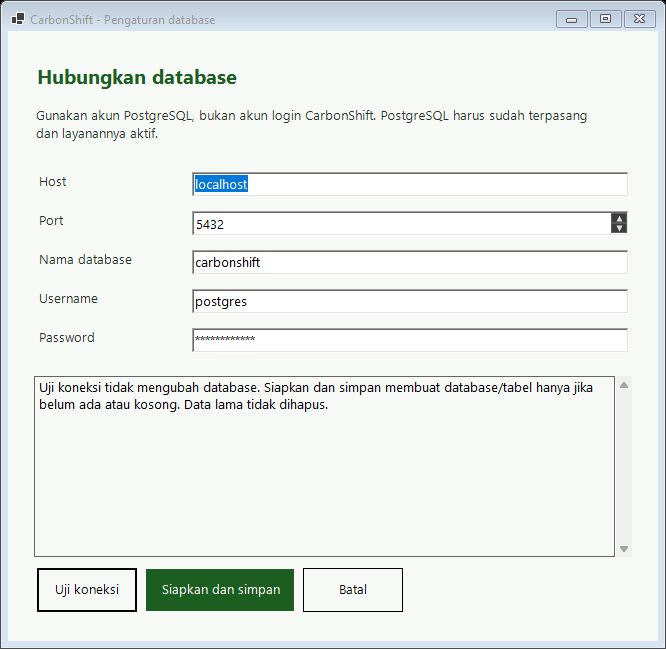
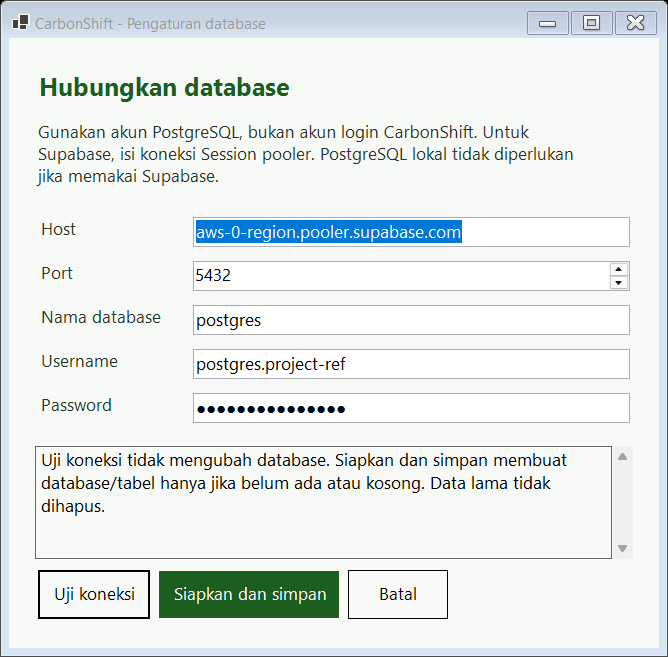
docs: sesuaikan panduan pengguna dan migrasi Supabase

diff --git a/docs/PANDUAN_PENGGUNA.md b/docs/PANDUAN_PENGGUNA.md
@@ -8,22 +8,21 @@ CarbonShift membantu memilih waktu aktivitas listrik berdasarkan prakiraan cuaca
 
 - Gunakan Windows 64-bit. Paket ini tidak ditujukan untuk macOS, Linux, atau Windows 32-bit.
 - Visual Studio, .NET SDK, dan .NET Runtime tidak perlu dipasang untuk memakai paket self-contained.
-- PostgreSQL harus dipasang terpisah dan layanannya aktif. Paket tidak menyertakan server PostgreSQL.
-- Internet diperlukan untuk mencari kota dan mengambil forecast terbaru. Cache hanya membantu jika data yang sesuai pernah diambil.
+- Database memakai PostgreSQL di Supabase. Kamu tidak perlu memasang PostgreSQL lokal.
+- Internet diperlukan untuk login, register, riwayat, pencarian kota, dan forecast terbaru. Cache forecast tidak menggantikan koneksi database.
 
-### Memasang PostgreSQL jika belum tersedia
+### Siapkan koneksi dari pengelola
 
-1. Unduh installer Windows melalui [situs resmi PostgreSQL](https://www.postgresql.org/download/windows/). Pengujian lokal paket menggunakan PostgreSQL 18.
-2. Pasang komponen PostgreSQL Server. pgAdmin boleh digunakan untuk pengelolaan manual.
-3. Catat password untuk akun PostgreSQL `postgres`. Akun ini berbeda dari akun pengguna CarbonShift.
-4. Port default adalah `5432`. Jika diganti atau port sudah dipakai, gunakan port instalasi tersebut pada wizard.
-5. Selesaikan instalasi. Jika koneksi gagal, buka Windows Services dan pastikan layanan PostgreSQL berstatus Running.
+1. Minta host, port, nama database, username Session pooler, dan password database kepada pengelola secara privat.
+2. Pastikan pengelola sudah menyiapkan database CarbonShift di Supabase. Pengguna tidak perlu membuat tabel atau menjalankan SQL.
+3. Simpan password database untuk pengaturan koneksi. Saat masuk aplikasi nanti, gunakan akun CarbonShift sendiri.
+4. Paket publik tidak menyertakan password database. Akses ini ditujukan untuk demonstrasi kelompok dengan peserta terbatas.
 
 ### Membuka paket
 
 1. Klik kanan ZIP submisi, lalu pilih **Extract All** ke folder yang dapat ditulis, misalnya Documents.
 2. Buka folder hasil ekstraksi, masuk ke folder **Aplikasi**, lalu jalankan **CarbonShift.exe**.
-3. Pertahankan seluruh isi folder **Aplikasi**, termasuk DLL dan runtime di samping executable. Jangan menjalankan aplikasi langsung dari ZIP atau memindahkan hanya EXE.
+3. Pertahankan seluruh isi folder **Aplikasi**, termasuk DLL, runtime, dan sertifikat **prod-ca-2021.crt**. Jangan memindahkan hanya EXE.
 4. Pada pemakaian pertama, ikuti Pengaturan database. Setelah konfigurasi berhasil, penggunaan berikutnya langsung menuju halaman Masuk.
 
 Pengaturan dan cache disimpan dalam profil Windows di `%LocalAppData%\CarbonShift`, bukan di dalam ZIP. Laporan testing Modul 10 milik kelompok disertakan terpisah oleh pengumpul.
@@ -32,21 +31,23 @@ Pengaturan dan cache disimpan dalam profil Windows di `%LocalAppData%\CarbonShif
 
 ## 2. Pengaturan database pertama kali
 
-Isi koneksi PostgreSQL, lalu pilih **Uji koneksi**. Tombol ini tidak mengubah database.
+Isi koneksi **Session pooler Supabase** dari pengelola, lalu pilih **Uji koneksi**. Tombol ini tidak mengubah database.
 
 | Field | Contoh / keterangan |
 | --- | --- |
-| Host | `localhost` untuk PostgreSQL pada laptop yang sama |
-| Port | `5432`, atau port yang dipilih saat instalasi |
-| Nama database | `carbonshift`. Jangan memakai `postgres` atau database template |
-| Username | `postgres`, atau akun PostgreSQL yang diberikan pengelola |
-| Password | Password PostgreSQL dari proses instalasi |
+| Host | Host Session pooler dari pengelola, berakhiran `.pooler.supabase.com` |
+| Port | Biasanya `5432`. Ikuti informasi dari pengelola |
+| Nama database | `postgres` untuk Supabase |
+| Username | Username pooler dari pengelola, biasanya `postgres.<project-ref>` |
+| Password | Password database dari pengelola, bukan password akun CarbonShift |
 
-![Wizard database. Password disamarkan.](images/01-database.png)
+![Pengaturan Supabase dengan contoh isian. Tidak memuat kredensial asli.](images/01-database.png)
 
-Klik **Siapkan dan simpan** setelah isian benar. Database baru memerlukan hak CREATEDB. Database kosong akan diisi lima tabel dan akun contoh. Database CarbonShift yang sudah sesuai langsung dipakai. Data lama tidak dihapus. Schema parsial/berbeda ditolak untuk mencegah perubahan yang tidak diinginkan.
+Klik **Siapkan dan simpan** setelah koneksi dan schema sesuai. Wizard menyimpan koneksi pada profil Windows. Supabase harus sudah berisi tabel CarbonShift, wizard tidak membuatnya.
 
-Jika konfigurasi perlu diganti, buka **Pengaturan database** di halaman Masuk. Batal saat pengaturan ulang mempertahankan koneksi sebelumnya. Batal pada setup pertama menutup aplikasi.
+Koneksi Supabase memakai TLS dengan verifikasi sertifikat CA dan nama server.
+
+Ubah koneksi melalui **Pengaturan database** di halaman Masuk. Batal saat pengaturan ulang mempertahankan koneksi sebelumnya.
 
 <!-- pagebreak -->
 
@@ -58,9 +59,9 @@ Pilih **Belum punya akun? Daftar**, isi nama dan email, lalu masukkan password 8
 
 Email tidak membedakan kapital. Password harus sama persis, termasuk spasi yang sengaja dimasukkan. Riwayat akun baru masih kosong.
 
-Untuk masuk kembali, gunakan mode **Masuk**. Akun contoh pada database yang baru disiapkan adalah **admin@carbonshift.com** dengan password **12345**. Database lama belum tentu memiliki akun contoh. Pengguna tetap dapat mendaftar sendiri. Kredensial PostgreSQL tidak dipakai pada form Masuk ini.
+Untuk masuk kembali, gunakan email dan password CarbonShift yang dibuat saat daftar. Akun lama dari DB lokal tetap dapat dipakai setelah pengelola memigrasikannya. Kredensial PostgreSQL tidak dipakai pada form Masuk ini.
 
-Setelah Logout, aplikasi kembali ke mode Masuk dengan password kosong. Setiap akun memiliki riwayat terpisah.
+Setelah Logout, aplikasi kembali ke mode Masuk dengan password kosong. Riwayat pada aplikasi mengikuti akun aktif. Akun dan riwayat dapat dibuka di komputer lain yang terhubung ke database Supabase yang sama. Lokasi terakhir dan cache tetap disimpan pada perangkat.
 
 <!-- pagebreak -->
 
@@ -111,10 +112,10 @@ Gunakan **Logout** di bawah sidebar untuk berganti akun. Untuk mengubah koneksi 
 
 | Gejala | Langkah yang dilakukan |
 | --- | --- |
-| Tidak terhubung ke PostgreSQL | Pastikan server terpasang, layanan Running, dan host/port sesuai. Gunakan Uji koneksi. |
-| Password PostgreSQL ditolak | Isi password PostgreSQL dari instalasi, bukan password akun CarbonShift. |
-| Hak akses kurang | Gunakan akun dengan CREATEDB untuk DB baru dan CREATE pada schema public untuk tabel baru. Hubungi pengelola jika perlu. |
-| Schema tidak sesuai | Jangan menghapus DB lama. Gunakan nama database baru atau minta pengelola memeriksa schema. |
+| Database tidak terhubung | Periksa internet, status project Supabase, host, port, dan username Session pooler. Gunakan Uji koneksi. |
+| Password database ditolak | Isi password database dari pengelola, bukan password akun CarbonShift. |
+| Sertifikat ditolak | Pastikan prod-ca-2021.crt tetap ada di folder Aplikasi dan tanggal komputer benar. Minta pengelola memeriksa sertifikat. |
+| Hak akses atau schema tidak sesuai | Hubungi pengelola. Jangan menjalankan SQL lokal atau menghapus tabel Supabase. |
 | Email sudah terdaftar | Pilih mode Masuk atau gunakan email lain. |
 | Tidak ada slot cocok | Pilih besok/lusa, perluas rentang, atau kurangi durasi. Semua interval harus memiliki data lengkap. |
 | Forecast gagal | Periksa internet dan ambil ulang. Cache cadangan hanya tersedia jika pernah mengambil data yang masih sesuai. |
@@ -127,13 +128,8 @@ Aplikasi membaca konfigurasi dari environment variable `CARBONSHIFT_DB`, konfigu
 
 File konfigurasi lokal memuat kredensial PostgreSQL. Jangan memasukkannya ke ZIP atau membagikannya. Saat menerima versi aplikasi baru, ekstrak ke folder baru. Konfigurasi profil Windows dan database tetap terpisah dari paket aplikasi.
 
-### Setup SQL manual (opsional)
+### Informasi untuk pengelola
 
-Wizard tidak memerlukan psql atau pgAdmin. Jika pengelola memilih setup manual untuk database baru, jalankan perintah berikut dari folder Database.
+Detail penyiapan dan migrasi ada di **Dokumentasi/Supabase.md**. Contoh koneksi tanpa password asli ada di **Database/supabase.config.example**. SQL di **Database/Lokal-opsional** hanya untuk PostgreSQL lokal, bukan Supabase.
 
-```text
-psql -U postgres -h localhost -d postgres -f schema.psql
-psql -U postgres -h localhost -d carbonshift -f seed.sql
-```
-
-Script schema manual membuat database baru bernama carbonshift dan akan gagal jika database itu sudah ada. Script ini tidak melakukan reset. Untuk database lama yang sesuai, cukup pakai wizard. Nama/tipe tabel tetap mengikuti rancangan resmi kelompok.
+Jangan membagikan password database atau konfigurasi pribadi bersama paket publik. Koneksi SQL langsung belum membatasi akses antar pengguna pada tingkat database. Untuk distribusi publik, siapkan backend API atau Supabase Auth beserta kebijakan RLS per pengguna.

diff --git a/docs/SUPABASE.md b/docs/SUPABASE.md
@@ -1,0 +1,88 @@
+# Memindahkan CarbonShift ke Supabase
+
+Supabase digunakan sebagai server PostgreSQL. Login CarbonShift tetap memakai tabel `public."user"` dan hash password yang sudah ada. Supabase Auth tidak dipakai. Lima tabel, ID, relasi, akun, dan riwayat dipertahankan.
+
+## Membuat project
+
+1. Masuk ke [dashboard Supabase](https://supabase.com/dashboard), lalu pilih **New project**.
+2. Pilih organisasi dan beri nama project, misalnya `carbonshift`.
+3. Buat password database yang kuat dan simpan di password manager. Ini bukan password akun CarbonShift.
+4. Pilih region Singapore jika tersedia, lalu buat project. Tunggu sampai database siap.
+5. Buka pengaturan integrasi **Data API**, lalu matikan **Enable Data API**. Aplikasi saat ini tidak memakai REST, GraphQL, atau SDK Supabase. Jangan mengekspos tabel akun beserta hash password melalui Data API.
+6. Buka **Connect**, lalu pilih **Session pooler**. Salin host, port, database, dan username dari panel tersebut. Jangan menebak host berdasarkan region.
+7. Gunakan database `postgres` dan port dari panel, biasanya `5432`. Username pooler biasanya berbentuk `postgres.<project-ref>`. Jangan pilih Transaction pooler untuk migrasi ini.
+8. Jangan jalankan `schema.psql` atau `seed.sql` di project target. Database Supabase sudah tersedia dan akun lama akan dibawa melalui migrasi.
+
+Centang **Enable RLS on new tables automatically** jika pilihan itu tersedia. Saat migrasi, tetap periksa RLS pada setiap tabel dan hak akses role database yang dipakai.
+
+Session pooler mendukung koneksi dari jaringan IPv4. Koneksi direct bergantung dukungan IPv6 atau add-on IPv4. Lihat [dokumentasi koneksi Supabase](https://supabase.com/docs/guides/database/connecting-to-postgres).
+
+## Menyimpan koneksi secara lokal
+
+Simpan koneksi target di `Form/CarbonShift/supabase.config`. File ini diabaikan Git dan tidak dibundel ke aplikasi. Isi format Npgsql dengan nilai project sendiri.
+
+```text
+Host=<host-session-pooler>;Port=5432;Database=postgres;Username=postgres.<project-ref>;Password=<password-database>;SSL Mode=VerifyFull;Root Certificate=<path-sertifikat>;Timeout=15;Command Timeout=30
+```
+
+Gunakan tanda kutip ganda pada nilai password yang mengandung titik koma. Jangan menempelkan connection string lengkap ke chat, screenshot, commit, atau GitHub Releases. Publishable key, anon key, dan service role key bukan password PostgreSQL.
+
+Untuk menjalankan aplikasi dari PowerShell setelah migrasi berhasil, gunakan konfigurasi berikut.
+
+```powershell
+$env:CARBONSHIFT_DB = (Get-Content -Raw Form/CarbonShift/supabase.config).Trim()
+dotnet run --project Form/CarbonShift/CarbonShift.csproj
+```
+
+Alternatifnya, isi koneksi target melalui Pengaturan database di halaman Masuk. Dukungan ini memerlukan build aplikasi yang sudah memuat perubahan Supabase. ZIP v1.0.0 yang diterbitkan sebelum perubahan ini belum mendukung nama database Supabase.
+
+Koneksi ke host Supabase memakai TLS dengan verifikasi sertifikat dan hostname. Jika koneksi gagal karena sertifikat, periksa sertifikat CA dan konfigurasi dari Supabase. Jangan mengatasi masalah dengan mematikan verifikasi.
+
+Buka **Database → Settings → SSL Configuration**, aktifkan **Enforce SSL on incoming connections**, lalu pilih **Download certificate**. Sertifikat CA yang dipakai project ini disimpan sebagai `Form/CarbonShift/prod-ca-2021.crt` dan ikut disalin saat build atau publish. Ini sertifikat publik, bukan private key atau password. Jika path sertifikat tidak ditentukan dalam konfigurasi, aplikasi mencari file tersebut di samping executable.
+
+Path absolut pada `Root Certificate` hanya berlaku pada komputer yang memiliki file tersebut. Saat pindah komputer, sesuaikan path atau gunakan sertifikat bawaan di folder aplikasi melalui wizard. Jangan membundel konfigurasi pribadi.
+
+## Urutan migrasi
+
+1. Tutup semua aplikasi CarbonShift yang menulis ke DB sumber.
+2. Pastikan DB sumber yang dipilih benar. Cocokkan jumlah akun, aktivitas, forecast, slot, dan rekomendasi.
+3. Buat backup lokal dengan `pg_dump` dalam format custom. Simpan di `artifacts/` agar tidak masuk Git. Backup berisi data pengguna dan hash password, sehingga tidak boleh diunggah sebagai aset release.
+4. Periksa versi PostgreSQL sumber dan target. Gunakan alat migrasi yang sesuai. Sumber lokal saat persiapan menggunakan PostgreSQL 18. Jangan langsung menganggap dump dari versi lebih baru dapat dipulihkan ke server versi lebih lama.
+5. Periksa bahwa kelima tabel CarbonShift belum ada di target. Jika sudah ada, hentikan migrasi dan periksa isinya. Jangan memakai opsi `--clean`, menghapus schema `public`, atau menimpa data secara otomatis.
+6. Impor hanya schema dan data CarbonShift. Jangan memindahkan role lokal, kepemilikan lokal, atau schema internal Supabase seperti `auth`, `storage`, dan `extensions`.
+7. Pastikan seluruh impor berhasil sebelum memakai target. Pertahankan ID dan nilai identity sequence agar pendaftaran serta penyimpanan berikutnya tidak bertabrakan.
+8. Lindungi tabel dengan mencabut akses Data API dan mengaktifkan RLS. Periksa bahwa akun koneksi aplikasi memiliki akses SQL yang memang dibutuhkan. RLS tanpa kebijakan tidak membatasi role pemilik tabel atau role BYPASSRLS.
+9. Cocokkan jumlah baris setiap tabel serta relasi dan isi data. Uji login akun lama, daftar akun sementara, simpan jadwal, restart, dan pemisahan riwayat melalui aplikasi.
+10. Alihkan konfigurasi aplikasi hanya setelah verifikasi berhasil. Simpan DB lokal sebagai cadangan. Jika ada penulisan baru ke sumber setelah backup dibuat, ambil backup baru sebelum cutover.
+
+Jangan menjalankan seluruh suite integrasi setup database pada project Supabase produksi. Beberapa pengujian membuat dan menghapus database atau role sementara. Gunakan pengujian terbatas pada akun dan data uji khusus.
+
+Panduan resmi tersedia pada [migrasi PostgreSQL ke Supabase](https://supabase.com/kb/guides/migrate-from-postgres) dan [pengamanan Data API](https://supabase.com/docs/guides/api/securing-your-api).
+
+## Batas penggunaan koneksi langsung
+
+Koneksi PostgreSQL langsung masih menggunakan kredensial DB di perangkat pengguna. Pemisahan riwayat oleh query aplikasi bukan pembatasan hak akses antar pengguna pada tingkat database. Jangan membagikan password `postgres` dalam ZIP atau menjadikan konfigurasi ini akses publik.
+
+Untuk distribusi publik, gunakan backend API atau integrasi Supabase Auth dengan kebijakan RLS per pengguna. Perpindahan hosting database saja belum menyediakan perlindungan tersebut.
+
+## Status persiapan
+
+Migrasi dilaksanakan pada 22 November 2026 dari PostgreSQL 18 lokal ke PostgreSQL 17 di Supabase melalui Session pooler dan TLS dengan sertifikat terverifikasi. Backup custom disimpan secara lokal di `artifacts/migration-final-d8dbbf7c151c4204aad1278335ee9e10/`. File backup dan konfigurasi sumber tidak boleh masuk Git atau release.
+
+Schema dibuat dari definisi resmi. Seluruh nilai disalin lewat Npgsql dalam transaksi, termasuk ID, hash password, timestamp, dan relasi. Identity sequence diselaraskan dengan ID yang sudah ada. Metode ini tidak melakukan restore dump PostgreSQL 18 langsung ke server PostgreSQL 17.
+
+Jumlah data setelah migrasi dan pembersihan akun uji sesuai sumber.
+
+| Tabel | Jumlah baris |
+| --- | --- |
+| user | 2 |
+| activity | 1 |
+| weather_forecast | 1 |
+| time_slot | 4 |
+| recommendation | 1 |
+
+Seluruh kolom dibandingkan ulang melalui koneksi baru. Dua pengujian integrasi remote lolos, mencakup register, login, email duplikat, pemisahan riwayat, serta penyimpanan dan pembacaan jadwal besok dan lusa. Akun serta jadwal sementara pengujian dibersihkan. RLS diaktifkan pada lima tabel dan akses tabel serta sequence untuk `anon`, `authenticated`, dan `service_role` dicabut.
+
+Login akun demo hasil migrasi juga diverifikasi. Konfigurasi development dan pengaturan pada profil Windows pengembang sudah diarahkan ke Supabase. DB lokal tidak dihapus. Konfigurasi sumber lokal dicadangkan di folder backup tersebut sebagai `local-source.config`. Jika `CARBONSHIFT_DB` dipasang terpisah di komputer lain, variabel itu tetap memiliki prioritas dan harus diarahkan ke koneksi yang dimaksud.
+
+Pengujian default sesudah perubahan lolos dengan 65 berhasil dan 8 pengujian integrasi dilewati. Script packaging menyertakan sertifikat CA publik, contoh koneksi tanpa kredensial asli, serta panduan pengguna dan pengelola untuk Supabase. Kredensial DB tetap dibagikan secara privat oleh pengelola.

diff --git a/README.md b/README.md
@@ -24,13 +24,15 @@ Green Score adalah **skor kesesuaian waktu dengan potensi surya**, bukan persent
 
 ## Menjalankan aplikasi
 
-Untuk memakai paket submisi, ekstrak seluruh ZIP, pasang PostgreSQL lokal jika belum ada, lalu buka folder `Aplikasi` dan jalankan `CarbonShift.exe`. Paket self-contained menyertakan .NET runtime. Wizard membantu menguji koneksi, membuat DB/tabel jika belum ada/kosong, dan menyimpan konfigurasi pada profil Windows. Lihat [Panduan Pengguna](docs/PANDUAN_PENGGUNA.md).
+Untuk memakai paket submisi, ekstrak seluruh ZIP, buka folder `Aplikasi`, lalu jalankan `CarbonShift.exe`. Paket self-contained menyertakan .NET runtime dan sertifikat CA Supabase. PostgreSQL lokal tidak perlu dipasang. Minta detail koneksi Session pooler secara privat kepada pengelola, lalu isi melalui Pengaturan database. Login, register, dan riwayat membutuhkan internet. Lihat [Panduan Pengguna](docs/PANDUAN_PENGGUNA.md).
+
+Paket publik tidak membawa password DB. Koneksi SQL langsung ditujukan untuk demonstrasi terbatas. Pemisahan riwayat dalam aplikasi belum menjadi pembatasan akses SQL antar pengguna. Distribusi publik memerlukan backend API atau Supabase Auth dan kebijakan RLS per pengguna.
 
 ### Menjalankan dari source (developer)
 
 Penjelasan API, pengolahan forecast, rumus Green Score, contoh hitungan, dan penyimpanan hasil tersedia di [Alur Forecast, Green Score, dan Rekomendasi](docs/ALUR_REKOMENDASI.md). Alur daftar, login, dan pemisahan data pengguna dijelaskan di [Akun dan Autentikasi](docs/AKUN_DAN_AUTENTIKASI.md).
 
-Butuh Windows, .NET SDK 10, dan PostgreSQL. Gunakan database kelompok yang sudah ada. Perintah berikut hanya untuk instalasi database baru.
+Butuh Windows dan .NET SDK 10. Untuk Supabase, gunakan database kelompok yang sudah disiapkan dan ikuti [panduan Supabase](docs/SUPABASE.md). PostgreSQL lokal hanya diperlukan bila memilih pengembangan lokal. Perintah berikut khusus instalasi database lokal baru.
 
 ```powershell
 psql -U postgres -h localhost -d postgres -f database/schema.psql
@@ -69,7 +71,7 @@ dotnet test Form/CarbonShift.slnx
 Pengujian default mencakup engine, parsing API, cache, CSV, statistik, dan invalidasi input UI menggunakan data deterministik. Aktifkan pengujian DB dan API nyata dengan perintah berikut.
 
 ```powershell
-$env:CARBONSHIFT_DB = (Get-Content -Raw Form/CarbonShift/database.config).Trim()
+$env:CARBONSHIFT_DB = (Get-Content -Raw 'C:/path/ke/database-test-lokal.config').Trim()
 $env:CARBONSHIFT_TEST_DB = '1'
 $env:CARBONSHIFT_TEST_LIVE = '1'
 dotnet test Form/CarbonShift.slnx
@@ -77,9 +79,13 @@ dotnet test Form/CarbonShift.slnx
 
 Uji integrasi membuat akun sementara, menguji simpan/baca tanggal besok-lusa dan pemisahan akun, menjalankan alur UI sampai membuka ulang aplikasi, lalu membersihkan data akun uji. Tidak ada migrasi atau perubahan data pengguna yang sudah ada. Screenshot uji UI ditaruh di `%TEMP%\CarbonShift-preview`.
 
+Ganti path contoh di atas dengan konfigurasi PostgreSQL lokal khusus pengujian. Jangan menjalankan seluruh suite integrasi pada Supabase. Pengujian setup database membuat serta menghapus database dan role sementara. Untuk Supabase, gunakan hanya pengujian akun serta penyimpanan yang dipilih secara eksplisit sesuai [panduan Supabase](docs/SUPABASE.md).
+
 Fitur yang belum tersedia meliputi recurring schedule, notifikasi, reset password, edit profil/aktivitas, pemilihan alternatif untuk disimpan, IoT, dan ML.
 
 ## Paket submisi
+
+Untuk memakai PostgreSQL remote, ikuti [panduan persiapan dan migrasi Supabase](docs/SUPABASE.md). Migrasi menjaga akun dan riwayat CarbonShift yang sudah ada.
 
 Publish profile `Submission` menargetkan Release, Windows x64, self-contained, tanpa trimming atau pemaksaan single-file. [Panduan pengemasan](docs/PENGEMASAN.md) menjelaskan script, prasyarat developer, struktur ZIP, dan batas pengujian rilis. Hasil ZIP/PDF di `artifacts/` dan `output/` tidak di-commit. Source panduan, screenshot, SQL, profile, dan script tersedia di repo.
 

diff --git a/docs/PENGEMASAN.md b/docs/PENGEMASAN.md
@@ -24,8 +24,8 @@ Script menghentikan proses jika pengujian, publish, validasi runtime, atau pembu
 1. Jalankan `dotnet test` dalam konfigurasi Release.
 2. Publish proyek aplikasi dengan profile `Submission` yang memakai `win-x64`, self-contained, `PublishSingleFile=false`, `PublishTrimmed=false`.
 3. Pastikan executable, runtime Windows Forms, `hostfxr.dll`, `coreclr.dll`, dan Npgsql tersedia. Runtime config harus bertipe self-contained.
-4. Tolak output publish yang membawa `database.config`, PDB, atau assembly test. Aturan `CopyToPublishDirectory=Never` tidak mengubah dukungan konfigurasi development.
-5. Salin SQL, konfigurasi contoh, Markdown dan gambarnya. Bangun PDF dari sumber panduan yang sama.
+4. Pastikan sertifikat CA publik `prod-ca-2021.crt` tersedia. Tolak konfigurasi pribadi, dump database, private key, PDB, dan assembly test. `database.config` dan `supabase.config` tidak ikut publish.
+5. Salin panduan pengguna, panduan Supabase, konfigurasi contoh tanpa kredensial asli, dan gambar. Letakkan SQL lokal di `Database/Lokal-opsional`. Bangun PDF dari sumber panduan yang sama.
 6. Tambahkan instruksi mulai dan informasi versi/commit/status workspace. Workspace modified dicatat jika perubahan belum di-commit. File sumber yang sedang ada tetap dibangun.
 7. Buat ZIP dan checksum SHA-256 di `artifacts/`. Setiap build memakai staging baru agar file build sebelumnya tidak ikut.
 
@@ -41,13 +41,20 @@ artifacts/
     INFO-VERSI.txt
     Aplikasi/
       CarbonShift.exe
+      prod-ca-2021.crt
       seluruh runtime/dependensi
-    Database/schema.psql, schema.sql, seed.sql, database.config.example
+    Database/supabase.config.example
+    Database/Lokal-opsional/schema.psql, schema.sql, seed.sql, database.config.example
     Dokumentasi/Panduan-Pengguna.md
+    Dokumentasi/Supabase.md
     Dokumentasi/images/
 ```
 
 PostgreSQL, konfigurasi pribadi, data pengguna, laporan Modul 10, dan seluruh source repo tidak dibundel. Pengumpul dapat menambahkan laporan Modul 10 sendiri sebelum mengunggah. Bila ZIP diedit manual, hitung ulang checksum.
+
+Paket ini memakai Supabase yang sudah disiapkan pengelola. Pengguna memerlukan internet dan detail koneksi Session pooler yang dibagikan secara privat, bukan instalasi PostgreSQL lokal. Sertifikat CA publik boleh disertakan. Password DB, backup migrasi, dan konfigurasi aktif tidak boleh dimasukkan ke ZIP atau PDF.
+
+Script menolak flag integrasi aktif saat packaging agar tidak menjalankan pengujian setup database pada Supabase. Dua pengujian akun dan penyimpanan remote telah diverifikasi terpisah. Jangan menjalankan seluruh suite setup DB di project Supabase.
 
 ## PDF saja
 
@@ -61,8 +68,9 @@ Periksa seluruh halaman hasil render. Screenshot mode demo dan data uji diberi k
 ## Checklist sebelum unggah
 
 - Ekstrak ZIP ke folder baru, buka folder `Aplikasi`, lalu jalankan `CarbonShift.exe`.
-- Pastikan seluruh dependensi tetap berada di samping EXE dan tidak ada konfigurasi pribadi.
-- Uji setup baru dengan DB sementara. Periksa DB yang sudah sesuai tidak berubah dan schema parsial ditolak.
+- Pastikan dependensi dan sertifikat CA tetap berada di samping EXE. Periksa ZIP tidak membawa konfigurasi pribadi, password, atau dump migrasi.
+- Uji koneksi Session pooler dan penyimpanan pengaturan pada profil Windows. Pengguna baru perlu meminta detail koneksi secara privat.
+- Uji setup database lokal hanya pada DB sementara lokal. Jangan menjalankannya pada Supabase.
 - Daftar/login, ambil forecast, simpan, tutup, buka lagi, dan baca riwayat.
 - Sertakan laporan testing Modul 10 milik kelompok bila diminta dalam submisi.
 - Coba di Windows bersih tanpa .NET/Visual Studio. Pemeriksaan runtime dan pengujian pada laptop developer tidak menggantikan uji lingkungan bersih tersebut.
